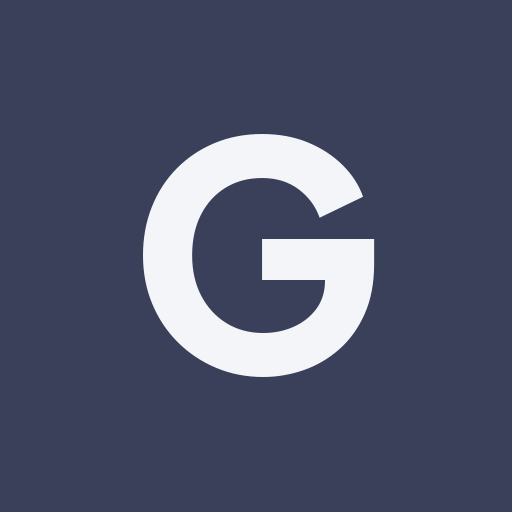
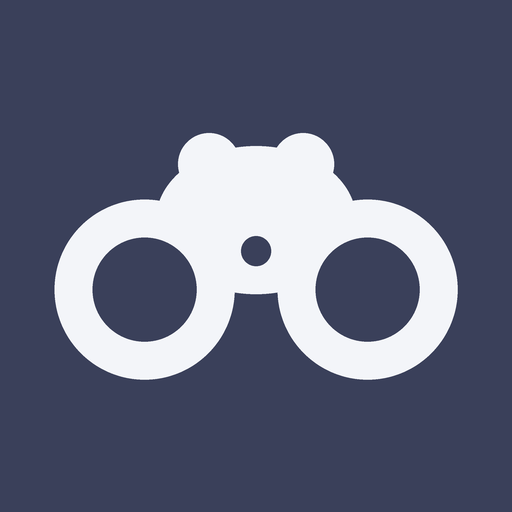
Update GradScout branding and landing page

Changed region(s): [[0.0938, 0.25, 0.9062, 0.75], [0.3125, 0.3438, 0.3438, 0.375]]

diff --git a/frontend/src/components/marketing/Logo.jsx b/frontend/src/components/marketing/Logo.jsx
@@ -4,10 +4,12 @@ import { Link } from 'react-router-dom'
  * Reuses the real app icon (public/icon-*.png — the same mark used for
  * the browser favicon, PWA home-screen icon, and push notifications)
  * rather than redrawing it, so the site nav/footer and the installed
- * app always show the exact same mark. Rounded here via CSS since the
- * source PNGs are delivered full-bleed square (maskable-icon
- * convention — the OS applies its own mask shape on Android, so the
- * file itself carries no baked-in corner radius to match).
+ * app always show the exact same mark: a pair of binoculars, on brand
+ * for a "scout" that looks for jobs on your behalf. Rounded here via
+ * CSS since the source PNGs are delivered full-bleed square
+ * (maskable-icon convention — the OS applies its own mask shape on
+ * Android, so the file itself carries no baked-in corner radius to
+ * match).
  */
 export function Mark({ size = 32, className = '' }) {
   return (

diff --git a/frontend/src/pages/marketing/Landing.jsx b/frontend/src/pages/marketing/Landing.jsx
@@ -2,9 +2,9 @@ import { Link } from 'react-router-dom'
 import {
   Bell,
   Filter,
+  GraduationCap,
   Mail,
   ShieldCheck,
-
   Star,
   ArrowRight,
 } from 'lucide-react'
@@ -58,7 +58,7 @@ const FEATURES = [
     body: "No subscription, no premium tier, no catch - GradScout will never charge for search, matching, or notifications.",
   },
   {
-    icon: ShieldCheck,
+    icon: GraduationCap,
     title: 'For students, by students',
     body: "GradScout is owned and founded by students; our priority is always to help graduates succeed.",
   },
